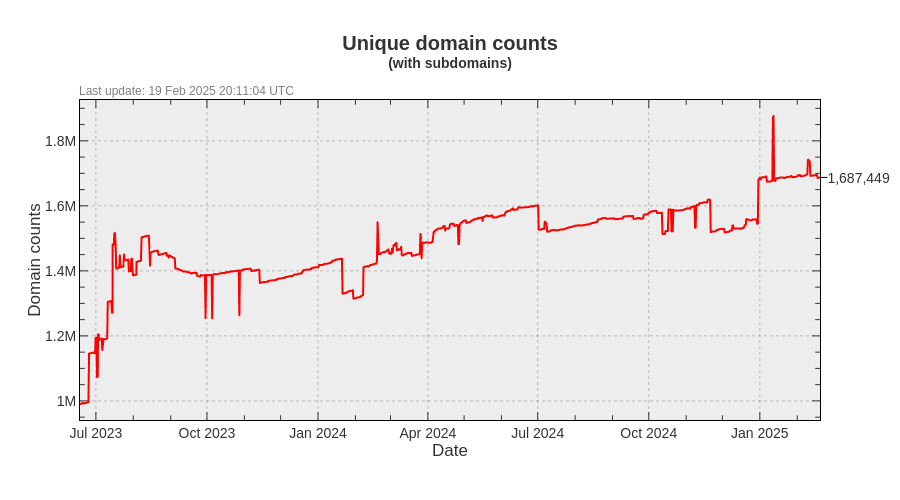
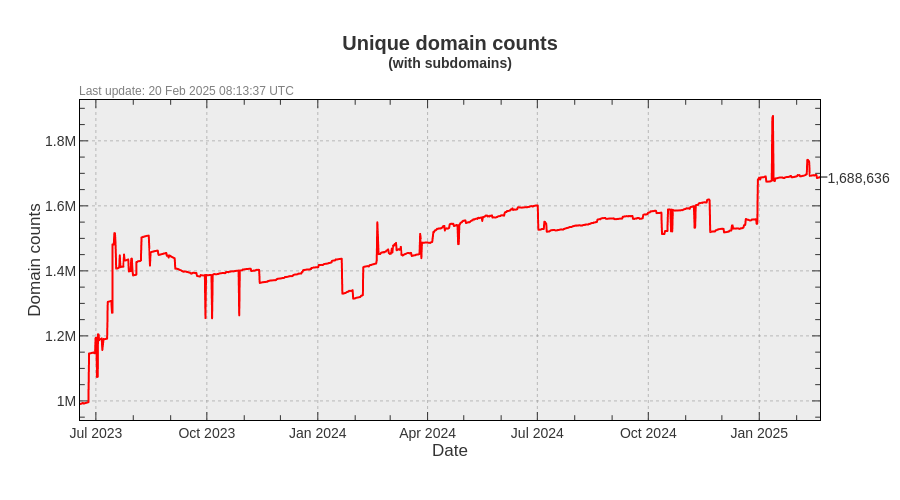
Update pages

diff --git a/README.md b/README.md
@@ -3,22 +3,22 @@ A blacklist file for blocking ads, trackers and malware domains.
 
[1 lines of base64/hex data omitted]
 
-- Unique domains: 1,687,449
-- Without subdomains: 1,050,977
-- Last update: 19 Feb 2025 20:11:04 UTC
-- Version: 2025.02.19.02
+- Unique domains: 1,688,636
+- Without subdomains: 1,051,986
+- Last update: 20 Feb 2025 08:13:37 UTC
+- Version: 2025.02.20.01
 
 
 ### Downloads:
 
 | Format             | Domain count      | Download Link |
 |:------------------ | -----------------:|:-------------:|
-| *Adblock Plus*     | 1,050,977 | [Download](https://dl.cenk.app/bad-hosts/bad-hosts-abp) |
-| *Wildcard domains* | 1,050,977 | [Download](https://dl.cenk.app/bad-hosts/bad-hosts-wildcard) |
-| *dnsmasq*          | 1,050,977 | [Download](https://dl.cenk.app/bad-hosts/bad-hosts-dnsmasq) |
-| *Unbound*          | 1,050,977 | [Download](https://dl.cenk.app/bad-hosts/bad-hosts-unbound) |
-| *hosts*            | 1,687,449 | [Download](https://dl.cenk.app/bad-hosts/hosts) |
-| *hosts (ipv6)*     | 1,687,449 | [Download](https://dl.cenk.app/bad-hosts/hosts-ipv6) |
-| *Plain domains*    | 1,687,449 | [Download](https://dl.cenk.app/bad-hosts/bad-hosts-domains) |
+| *Adblock Plus*     | 1,051,986 | [Download](https://dl.cenk.app/bad-hosts/bad-hosts-abp) |
+| *Wildcard domains* | 1,051,986 | [Download](https://dl.cenk.app/bad-hosts/bad-hosts-wildcard) |
+| *dnsmasq*          | 1,051,986 | [Download](https://dl.cenk.app/bad-hosts/bad-hosts-dnsmasq) |
+| *Unbound*          | 1,051,986 | [Download](https://dl.cenk.app/bad-hosts/bad-hosts-unbound) |
+| *hosts*            | 1,688,636 | [Download](https://dl.cenk.app/bad-hosts/hosts) |
+| *hosts (ipv6)*     | 1,688,636 | [Download](https://dl.cenk.app/bad-hosts/hosts-ipv6) |
+| *Plain domains*    | 1,688,636 | [Download](https://dl.cenk.app/bad-hosts/bad-hosts-domains) |
 
 
